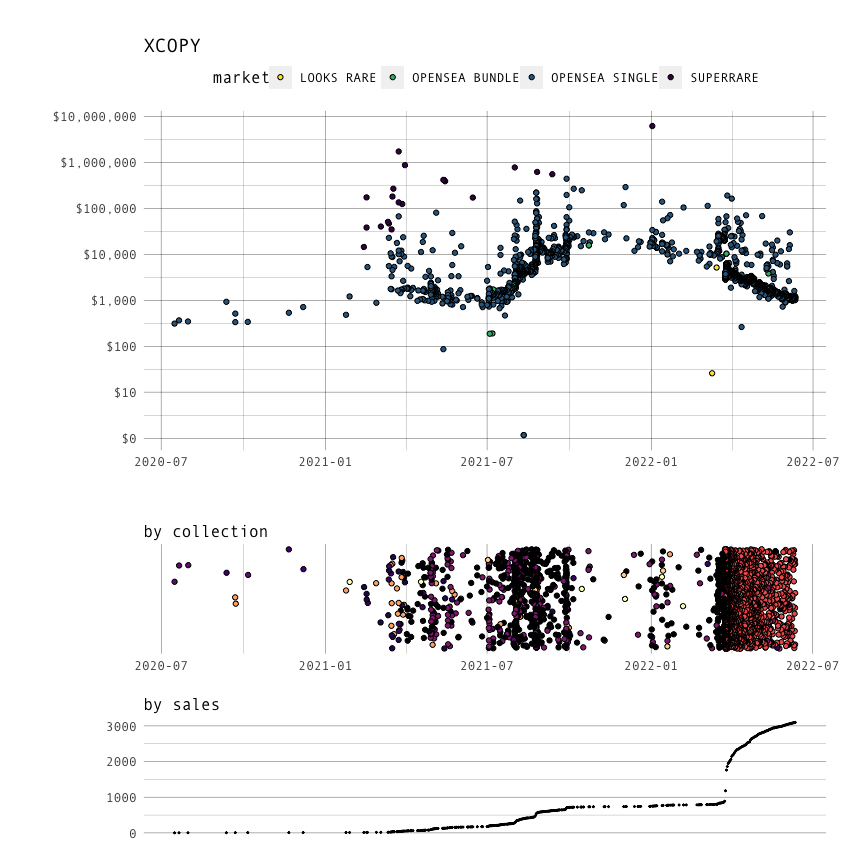
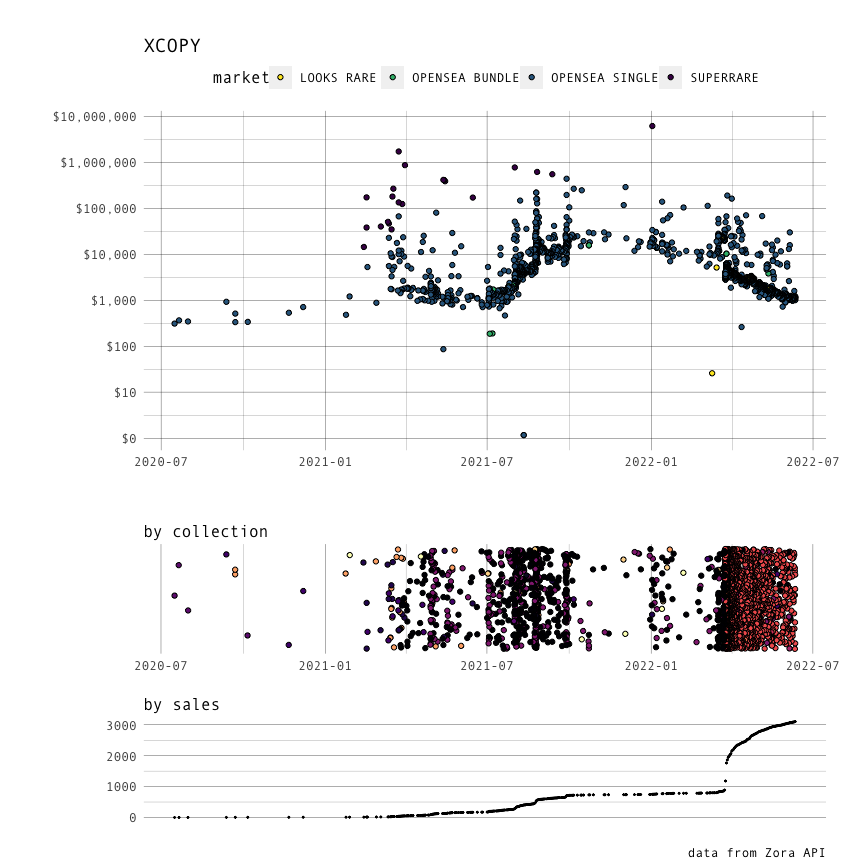
Update figure

diff --git a/README.md b/README.md
@@ -129,7 +129,7 @@ p3 <- df %>%
   dplyr::mutate(total=cumsum(n)) %>%
   ggplot(aes(x=day, y=total)) +
   geom_point(size=0.3) +
-  labs(x="", y="", color="", subtitle="by sales") +
+  labs(x="", y="", color="", subtitle="by sales", caption="data from Zora API") +
   theme(
     text=element_text(size=12,  family="Andale Mono"),
     panel.background=element_blank(),
@@ -148,8 +148,7 @@ ggpubr::ggarrange(
   nrow=3, 
   align="v", 
   heights=c(0.6, 0.2 ,0.2),
-  common.legend=F) +
-  labs(caption="data from Zora API")
+  common.legend=F)
 ```
 
 ![](README_files/figure-gfm/unnamed-chunk-3-1.png)<!-- -->
